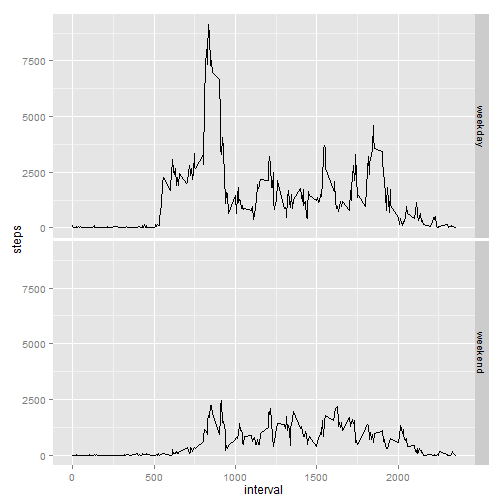
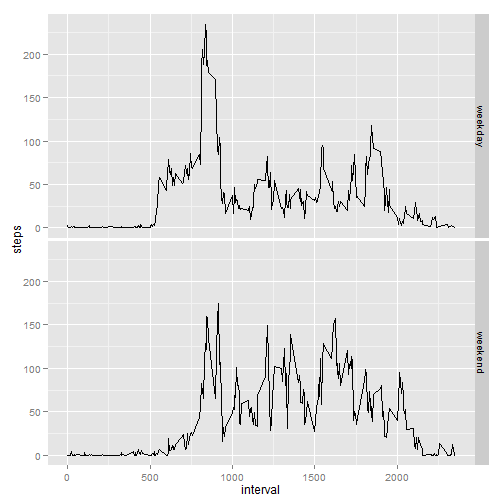
no message

diff --git a/PA1_template.html b/PA1_template.html
@@ -216,10 +216,10 @@ options(scipen = 1)
 <pre><code class="r">dailystep&lt;-aggregate(steps ~ date, data=data, FUN=sum)
 meandailystep &lt;- mean(dailystep$steps)
 mediandailystep &lt;- median(dailystep$steps)
-ggplot(dailystep,aes(x=date,y=steps))+geom_bar(stat=&#39;identity&#39;)
+ggplot(dailystep,aes(x=steps))+geom_histogram(binwidth=500)
 </code></pre>
 
[2 lines of base64/hex data omitted]
 
 <p>so the mean is 10766.1887 and median is 10765</p>
 
@@ -259,13 +259,12 @@ nafilled$steps&lt;-apply(data,1,function(x){as.integer(
 <pre><code class="r">nafilleddailystep&lt;-aggregate(steps ~ date, data=nafilled, FUN=sum)
 nafilledmeandailystep &lt;- mean(nafilleddailystep$steps)
 nafilledmediandailystep &lt;- median(nafilleddailystep$steps)
-ggplot(nafilleddailystep,aes(x=date,y=steps))+geom_bar(stat=&#39;identity&#39;)
+ggplot(nafilleddailystep,aes(x=steps))+geom_histogram(binwidth=500)
 </code></pre>
 
[2 lines of base64/hex data omitted]
 
-<p>mean is 10766.1887 and median is 10765,
-thought here are obviously changes in the histgram, there is no major impact on mean and median, they are increasing very slightly </p>
+<p>mean is 10766.1887 and median is 10765, there is no major impact on mean and median, they are increasing very slightly </p>
 
 <h2>Are there differences in activity patterns between weekdays and weekends?</h2>
 
@@ -275,11 +274,11 @@ thought here are obviously changes in the histgram, there is no major impact on 
   wd&lt;-weekdays(as.Date(x[&#39;date&#39;]))
   as.factor(ifelse(wd==&quot;Saturday&quot;||wd==&quot;Sunday&quot;,&quot;weekend&quot;,&quot;weekday&quot;))
 })
-perdaystep2 &lt;-aggregate(steps ~ interval + daytype, data=data, FUN=sum)
+perdaystep2 &lt;-aggregate(steps ~ interval + daytype, data=data, FUN=mean)
 ggplot(perdaystep2, aes(x = interval, y = steps)) + geom_line() + facet_grid(daytype ~ .)
 </code></pre>
 
[2 lines of base64/hex data omitted]
 
 </body>
 

diff --git a/PA1_template.md b/PA1_template.md
@@ -27,7 +27,7 @@ sum the steps by date, Calculate mean and median ,then plot a histgram
 dailystep<-aggregate(steps ~ date, data=data, FUN=sum)
 meandailystep <- mean(dailystep$steps)
 mediandailystep <- median(dailystep$steps)
-ggplot(dailystep,aes(x=date,y=steps))+geom_bar(stat='identity')
+ggplot(dailystep,aes(x=steps))+geom_histogram(binwidth=500)
 ```
 
 ![plot of chunk unnamed-chunk-3](figure/unnamed-chunk-3.png) 
@@ -76,13 +76,12 @@ for the new dataset, sum the steps by date, Calculate mean and median ,then plot
 nafilleddailystep<-aggregate(steps ~ date, data=nafilled, FUN=sum)
 nafilledmeandailystep <- mean(nafilleddailystep$steps)
 nafilledmediandailystep <- median(nafilleddailystep$steps)
-ggplot(nafilleddailystep,aes(x=date,y=steps))+geom_bar(stat='identity')
+ggplot(nafilleddailystep,aes(x=steps))+geom_histogram(binwidth=500)
 ```
 
 ![plot of chunk unnamed-chunk-7](figure/unnamed-chunk-7.png) 
  
-mean is 10766.1887 and median is 10765,
-thought here are obviously changes in the histgram, there is no major impact on mean and median, they are increasing very slightly 
+mean is 10766.1887 and median is 10765, there is no major impact on mean and median, they are increasing very slightly 
 
 ## Are there differences in activity patterns between weekdays and weekends?
 
@@ -94,7 +93,7 @@ data$daytype<-apply(data,1,function(x){
   wd<-weekdays(as.Date(x['date']))
   as.factor(ifelse(wd=="Saturday"||wd=="Sunday","weekend","weekday"))
 })
-perdaystep2 <-aggregate(steps ~ interval + daytype, data=data, FUN=sum)
+perdaystep2 <-aggregate(steps ~ interval + daytype, data=data, FUN=mean)
 ggplot(perdaystep2, aes(x = interval, y = steps)) + geom_line() + facet_grid(daytype ~ .)
 ```
 
